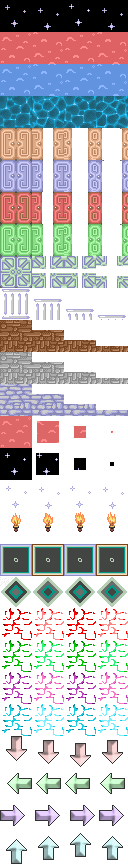
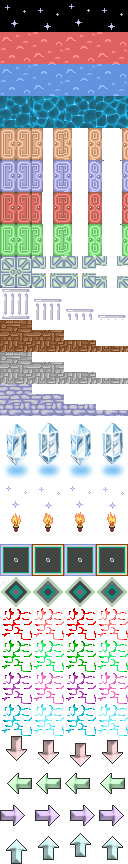
openDoor animates

diff --git a/libs/events.js b/libs/events.js
@@ -684,18 +684,15 @@ events.prototype.doAction = function() {
                     y = core.calValue(data.loc[1]);
                 }
                 var floorId=data.floorId || core.status.floorId;
-                var block=core.getBlock(x, y, floorId);
-                if (block!=null) {
-                    if (floorId==core.status.floorId)
-                        core.openDoor(block.block.event.id, block.block.x, block.block.y, false, function() {
-                            core.events.doAction();
-                        })
-                    else {
-                        core.removeBlock(block.block.x,block.block.y,floorId);
-                        this.doAction();
-                    }
-                    break;
+                if (floorId==core.status.floorId)
+                    core.openDoor(null, x, y, false, function() {
+                        core.events.doAction();
+                    })
+                else {
+                    core.removeBlock(x, y, floorId);
+                    this.doAction();
                 }
+                break;
                 this.doAction();
                 break;
             }
@@ -1067,8 +1064,11 @@ events.prototype.openDoor = function (id, x, y, needKey, callback) {
 
     if (core.interval.openDoorAnimate!=null) return;
 
+    if (!core.isset(id)) id = core.getBlockId(x, y);
+
     // 是否存在门
-    if (!core.terrainExists(x, y, id) && id!='lava' && id!='star') {
+    if (!core.terrainExists(x, y, id) || !(id.endsWith("Door") || id.endsWith("Wall"))
+        || !core.isset(core.material.icons.animates[id])) {
         if (core.isset(callback)) callback();
         return;
     }
@@ -1078,24 +1078,13 @@ events.prototype.openDoor = function (id, x, y, needKey, callback) {
     }
 
     core.stopAutomaticRoute();
-    var speed=30;
-    var doorId = id;
-    if (doorId.length<4 || doorId.substring(doorId.length-4)!="Door") {
-        doorId=doorId+"Door";
-        speed=70;
-    }
-    // 不存在门
-    if (!core.isset(core.material.icons.animates[doorId])) {
-        if (core.isset(callback)) callback();
-        return;
-    }
+    var speed = id.endsWith("Wall")?70:30;
 
-    var key = id.replace("Door", "Key");
-    if (needKey && (key=="specialKey" || core.isset(core.material.items[key]))) {
+    if (needKey && id.endsWith("Door")) {
         var key = id.replace("Door", "Key");
         if (!core.hasItem(key)) {
             if (key != "specialKey")
-                core.drawTip("你没有" + core.material.items[key].name);
+                core.drawTip("你没有" + ((core.material.items[key]||{}).name||"钥匙"));
             else core.drawTip("无法开启此门");
             core.clearContinueAutomaticRoute();
             return;
@@ -1107,7 +1096,7 @@ events.prototype.openDoor = function (id, x, y, needKey, callback) {
     // open
     core.playSound("door.mp3");
     var state = 0;
-    var door = core.material.icons.animates[doorId];
+    var door = core.material.icons.animates[id];
     core.status.replay.animate=true;
     core.removeGlobalAnimate(x,y);
     core.interval.openDoorAnimate = window.setInterval(function () {
@@ -1133,6 +1122,12 @@ events.prototype.battle = function (id, x, y, force, callback) {
     }
     core.stopHero();
     core.stopAutomaticRoute();
+
+    if (!core.isset(id)) id = core.getBlockId(x, y);
+    if (!core.isset(id)) {
+        if (core.isset(callback)) callback();
+        return;
+    }
 
     // 非强制战斗
     if (!core.enemys.canBattle(id, x, y) && !force && !core.isset(core.status.event.id)) {

diff --git a/project/icons.js b/project/icons.js
@@ -64,11 +64,11 @@ icons_4665ee12_3a1f_44a4_bea3_0fccba634dc1 =
             'greenDoor': 7,
             'specialDoor': 8,
             'steelDoor': 9,
-            'yellowWallDoor': 10,
-            'whiteWallDoor': 11,
-            'blueWallDoor': 12,
-            'lavaDoor': 13,
-            'starDoor': 14,
+            'yellowWall': 10,
+            'whiteWall': 11,
+            'blueWall': 12,
+            'crystalUp': 13,
+            'crystalBottom': 14,
             'starPortal': 15,
             'fire': 16,
             'portal': 17,

diff --git a/project/maps.js b/project/maps.js
@@ -99,6 +99,11 @@ maps_90f36752_8815_4be8_b32b_d7fad1d0542e =
     '93':{'cls': 'animates', 'id': 'downPortal', 'noPass': false}, // 下箭头
     '94':{'cls': 'animates', 'id': 'rightPortal', 'noPass': false}, // 右箭头
 
+    // 101~120 其他的animates
+    '101':{'cls': 'animates', 'id': 'crystalUp'},
+    '102':{'cls': 'animates', 'id': 'crystalBottom'},
+    '103':{'cls': 'animates', 'id': 'fire'},
+    '104':{'cls': 'animates', 'id': 'switch'},
 
     ////////////////////////// NPC部分 //////////////////////////
 

diff --git a/docs/api.md b/docs/api.md
@@ -162,11 +162,13 @@ core.nextY(n)
 
 core.openDoor(id, x, y, needKey, callback)    [异步]
 尝试开门操作。id为目标点的ID，x和y为坐标，needKey表示是否需要使用钥匙，callback为开门完毕后的回调函数。
+id可为null代表使用地图上的值。
 例如：core.openDoor('yellowDoor', 10, 3, false, function() {console.log("1")})
 
 
 core.battle(id, x, y, force, callback)    [异步]
 执行战斗事件。id为怪物的id，x和y为坐标，force为bool值表示是否是强制战斗，callback为战斗完毕后的回调函数。
+id可为null代表使用地图上的值。
 例如：core.battle('greenSlime', null, null, true)
 
 
